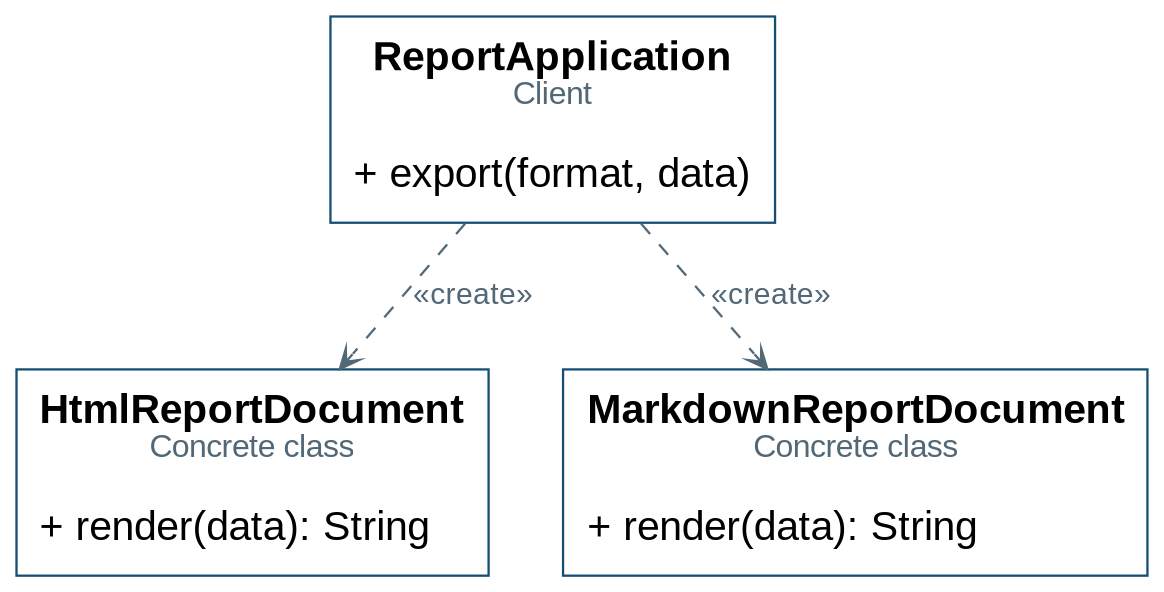
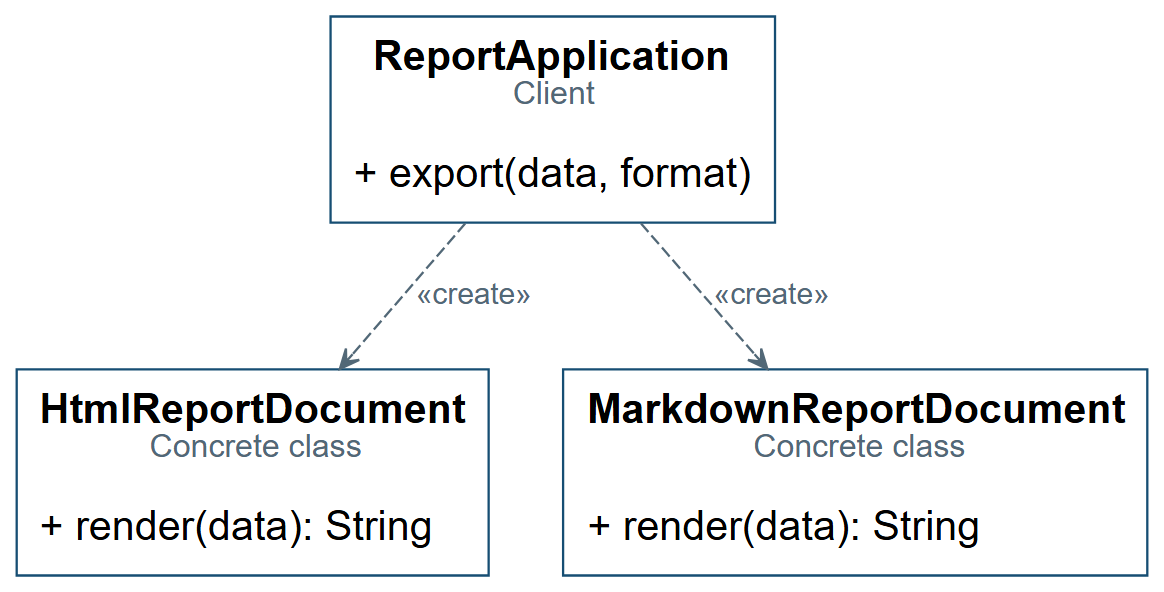
Fix the simple mode in Main and tidy the README
- Main: fix the case label for the "simple" mode and print
  "Activity incomplete: TODO ..." when a method still to be completed
  is reached, instead of a stack trace.
- README: add the Maven commands, fix the section numbering and use
  the same format for the variant names.
- docs: update the Simple Factory diagrams to export(data, format).

diff --git a/src/main/java/pt/ips/tapoo/factories/Main.java b/src/main/java/pt/ips/tapoo/factories/Main.java
@@ -40,28 +40,37 @@ public final class Main {
         Files.createDirectories(output);
 
         // Each method below shows one version of the same application.
-        switch (mode) {
-            case "baseline":
-                runBaseline(data, output);
-                break;
-            case "" +
-                         "":
-                runSimpleFactory(data, output);
-                break;
-            case "method":
-                runFactoryMethod(data, output);
-                break;
-            case "abstract":
-                runAbstractFactory(data, output);
-                break;
-            case "all":
-                runBaseline(data, output);
-                runSimpleFactory(data, output);
-                runFactoryMethod(data, output);
-                runAbstractFactory(data, output);
-                break;
-            default:
-                throw new IllegalArgumentException("Unknown mode: " + mode);
+        try {
+            switch (mode) {
+                case "baseline":
+                    runBaseline(data, output);
+                    break;
+                case "simple":
+                    runSimpleFactory(data, output);
+                    break;
+                case "method":
+                    runFactoryMethod(data, output);
+                    break;
+                case "abstract":
+                    runAbstractFactory(data, output);
+                    break;
+                case "all":
+                    runBaseline(data, output);
+                    runSimpleFactory(data, output);
+                    runFactoryMethod(data, output);
+                    runAbstractFactory(data, output);
+                    break;
+                default:
+                    throw new IllegalArgumentException("Unknown mode: " + mode);
+            }
+        } catch (UnsupportedOperationException e) {
+            // The methods still to be completed throw this exception with a "TODO ..." message.
+            String message = e.getMessage();
+            if (message == null || !message.startsWith("TODO")) {
+                throw e;
+            }
+            System.err.println("Activity incomplete: " + message);
+            return;
         }
 
         System.out.println("Reports saved in: " + output.toAbsolutePath());

diff --git a/README.md b/README.md
@@ -18,13 +18,14 @@ Trabalhe preferencialmente em pares, mantenha as interfaces e assinaturas fornec
 
 3. **Verificar a base:** execute apenas os testes da classe `FoundationTest`, disponíveis em `src/test/java`. Estes devem passar antes de iniciar as implementações.
 
-4. **Executar a versão inicial:** em **Run → Edit Configurations…**, selecione a configuração **Application** da classe `Main`, indique `baseline` em **Program arguments** e execute-a.
+4. **Executar a versão inicial:** em **Run → Edit Configurations…**, crie ou selecione a configuração **Application** da classe `Main`, indique `baseline` em **Program arguments** e execute-a.
 
 5. **Consultar os resultados:** abra `target/reports/baseline-report.html` num navegador e `target/reports/baseline-report.md` na pré-visualização Markdown do IDE. Confirme os **3 estudantes** e a média **11.33**.
 
-Ao desenvolver cada etapa, altere o argumento do `Main` para `simple`, `method` ou `abstract` e execute, respetivamente, `SimpleFactoryTest`, `FactoryMethodTest` ou `AbstractFactoryTest`. Estes testes poderão falhar enquanto a implementação correspondente estiver incompleta. O argumento `all` permite executar todas as variantes.
+Ao desenvolver cada etapa, altere o argumento do `Main` para `simple`, `method` ou `abstract` e execute, respetivamente, `SimpleFactoryTest`, `FactoryMethodTest` ou `AbstractFactoryTest`. Estes testes poderão falhar enquanto a implementação correspondente estiver incompleta. O argumento `all` permite executar todas as variantes. Os comandos Maven equivalentes estão na secção 4.
 
 > **Atenção aos contratos:** nas etapas 1 e 2, `documents.ReportDocument` utiliza `render(data)`; na etapa 3, `abstractfactory.ReportDocument` utiliza `render(data, tableContent)`, recebendo uma tabela produzida separadamente. Verifique os imports para utilizar a interface adequada.
+
 ## 3. Guião de trabalho — 50 minutos
 
 | Etapa | Tempo | Objetivo |
@@ -34,7 +35,6 @@ Ao desenvolver cada etapa, altere o argumento do `Main` para `simple`, `method` 
 | 3 — Abstract Factory | 15 min | Obter documento e tabela da mesma família |
 | 4 — Verificação e reflexão | 5 min | Comparar resultados e justificar as decisões |
 
-
 ### Etapa 1 — Simple Factory · 8 minutos
 
 **Problema:** o cliente escolhe classes concretas e chama os seus construtores. Outros clientes poderão repetir a decisão.
@@ -43,8 +43,7 @@ Ao desenvolver cada etapa, altere o argumento do `Main` para `simple`, `method` 
 2. Identifique a seleção do formato e as chamadas aos construtores.
 3. Complete **SF1**, em `simplefactory.ReportDocumentFactory.create(format)`, para fornecer o documento correspondente a cada valor de `ReportFormat`.
 4. Complete **SF2**, em `simplefactory.ReportApplication.export(data, format, destination)`, usando a fábrica para obter o documento, gerar o conteúdo e guardar o ficheiro.
-5. Execute os testes e a variante "simple".
-
+5. Execute `SimpleFactoryTest` (ou `mvn test -Pstage1`) e a variante `simple`.
 
 **Critério de conclusão:** ambos os formatos são gerados. O cliente de `simplefactory` depende da fábrica e da interface do produto, sem instanciar ou importar documentos concretos.
 
@@ -62,8 +61,7 @@ Ao desenvolver cada etapa, altere o argumento do `Main` para `simple`, `method` 
 2. Complete **FM1**, em `ReportExporter.export(data, destination)`, utilizando o produto obtido através do factory method.
 3. Complete **FM2**, em `HtmlReportExporter.createDocument()`.
 4. Complete **FM3**, em `MarkdownReportExporter.createDocument()`.
-5. Execute os testes e a variante: "method"
-
+5. Execute `FactoryMethodTest` (ou `mvn test -Pstage2`) e a variante `method`.
 
 **Critério de conclusão:** o processo comum usa a interface do produto. As subclasses decidem o documento criado. O método `export()` funciona também com um criador diferente dos dois já fornecidos.
 
@@ -88,8 +86,7 @@ O teste `commonProcessUsesTheOverriddenFactoryMethod` verifica precisamente esse
 2. Complete **AF1** e **AF2**, em `HtmlReportFactory`.
 3. Complete **AF3** e **AF4**, em `MarkdownReportFactory`.
 4. Complete **AF5**, em `ReportGenerator.generate(data)`, usando os produtos obtidos da fábrica recebida no construtor para compor o relatório.
-5. Execute os testes e a variante:"abstract"
-
+5. Execute `AbstractFactoryTest` (ou `mvn test -Pstage3`) e a variante `abstract`.
 
 **Critério de conclusão:** o gerador trabalha com as interfaces e recebe a família através da fábrica. Deve funcionar com outra fábrica que respeite os contratos, sem alteração do seu código.
 
@@ -105,9 +102,7 @@ O teste `generatorUsesBothProductsSuppliedByItsFactory` verifica se o gerador ut
 
 ### Etapa 4 — Verificação e reflexão · 5 minutos
 
-Execute todos os testes e gere os resultados das quatro variantes: "all"
-
-
+Execute todos os testes (`mvn test -Pall-stages`) e gere os resultados das quatro variantes com o argumento `all`.
 
 Compare os relatórios HTML entre si e os relatórios Markdown entre si: **o conteúdo deve manter-se igual ao da versão inicial**.
 
@@ -118,16 +113,28 @@ Registe as respostas em [REFLECTION.md](REFLECTION.md):
 
 Reveja também as dependências: os testes verificam o comportamento; a inspeção do código e do UML permite confirmar a distribuição de responsabilidades.
 
-## 5. Comandos de execução e testes
+## 4. Comandos de execução e testes
 
-Os perfis de etapa são **independentes**. Utilize um perfil de cada vez, ou `all-stages` para verificar o conjunto.
+Execute os comandos na pasta que contém `pom.xml`, num terminal com Maven, ou no IntelliJ IDEA através de **Execute Maven Goal**, na janela **Maven**.
+
+| Objetivo | Comando |
+|---|---|
+| Testes da base (`FoundationTest`) | `mvn test` |
+| Testes da etapa 1 | `mvn test -Pstage1` |
+| Testes da etapa 2 | `mvn test -Pstage2` |
+| Testes da etapa 3 | `mvn test -Pstage3` |
+| Todos os testes | `mvn test -Pall-stages` |
+| Executar uma variante | `mvn compile exec:java "-Dexec.args=simple"` |
+
+No último comando, substitua `simple` por `baseline`, `method`, `abstract` ou `all`. Os relatórios são gravados em `target/reports`.
+
+Os perfis de etapa são **independentes**: cada um executa os testes da base e os testes da etapa indicada. Utilize um perfil de cada vez, ou `all-stages` para verificar o conjunto.
 
 No IDE, executar todos os testes diretamente pode ativar também os testes das etapas incompletas. Para acompanhar a atividade, execute a classe de testes da etapa ou utilize os comandos Maven acima.
 
-
 Enquanto uma etapa estiver incompleta, a execução da respetiva variante termina com uma mensagem `Activity incomplete: TODO ...`. Este comportamento identifica o trabalho pendente.
 
-## 4. Checklist final
+## 5. Checklist final
 
 - [ ] Os 10 métodos assinalados foram completados.
 - [ ] A seleção da Simple Factory está centralizada na fábrica.
@@ -137,7 +144,7 @@ Enquanto uma etapa estiver incompleta, a execução da respetiva variante termin
 - [ ] Os ficheiros de saída preservam o conteúdo da versão inicial.
 - [ ] As duas respostas de `REFLECTION.md` estão preenchidas.
 
-## 5. Atividade complementar — família Plain Text
+## 6. Atividade complementar — família Plain Text
 
 Na variante Abstract Factory, acrescente:
 
